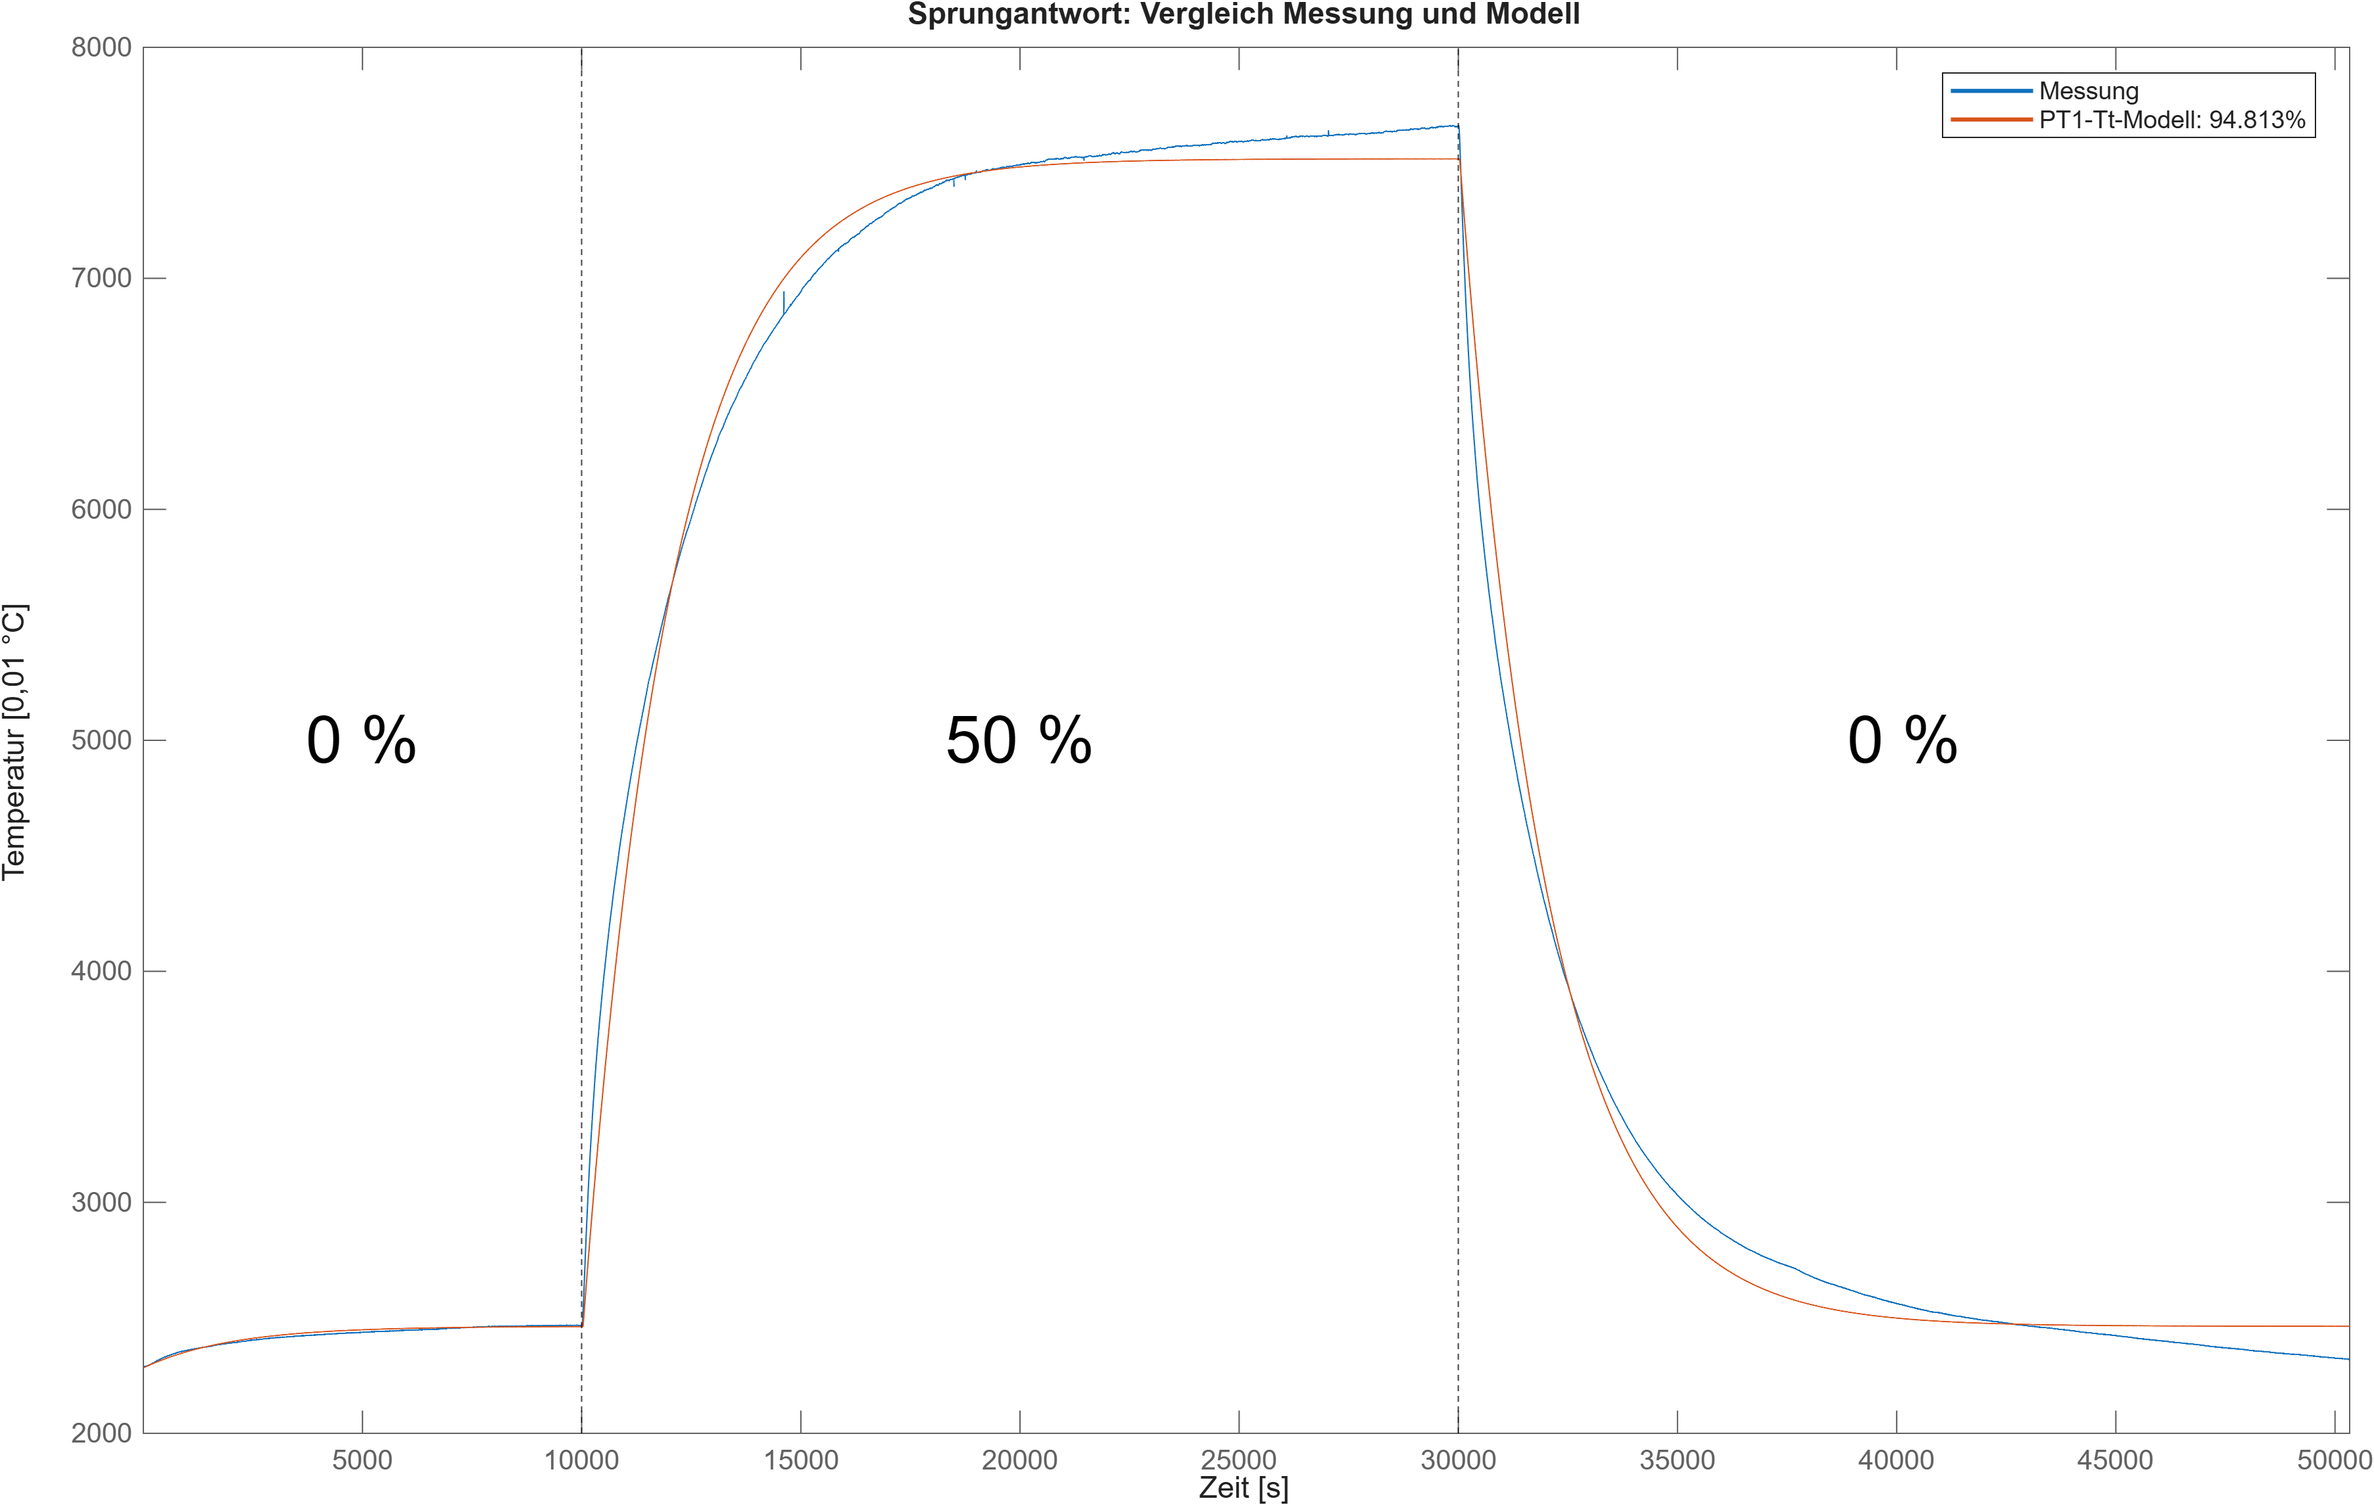
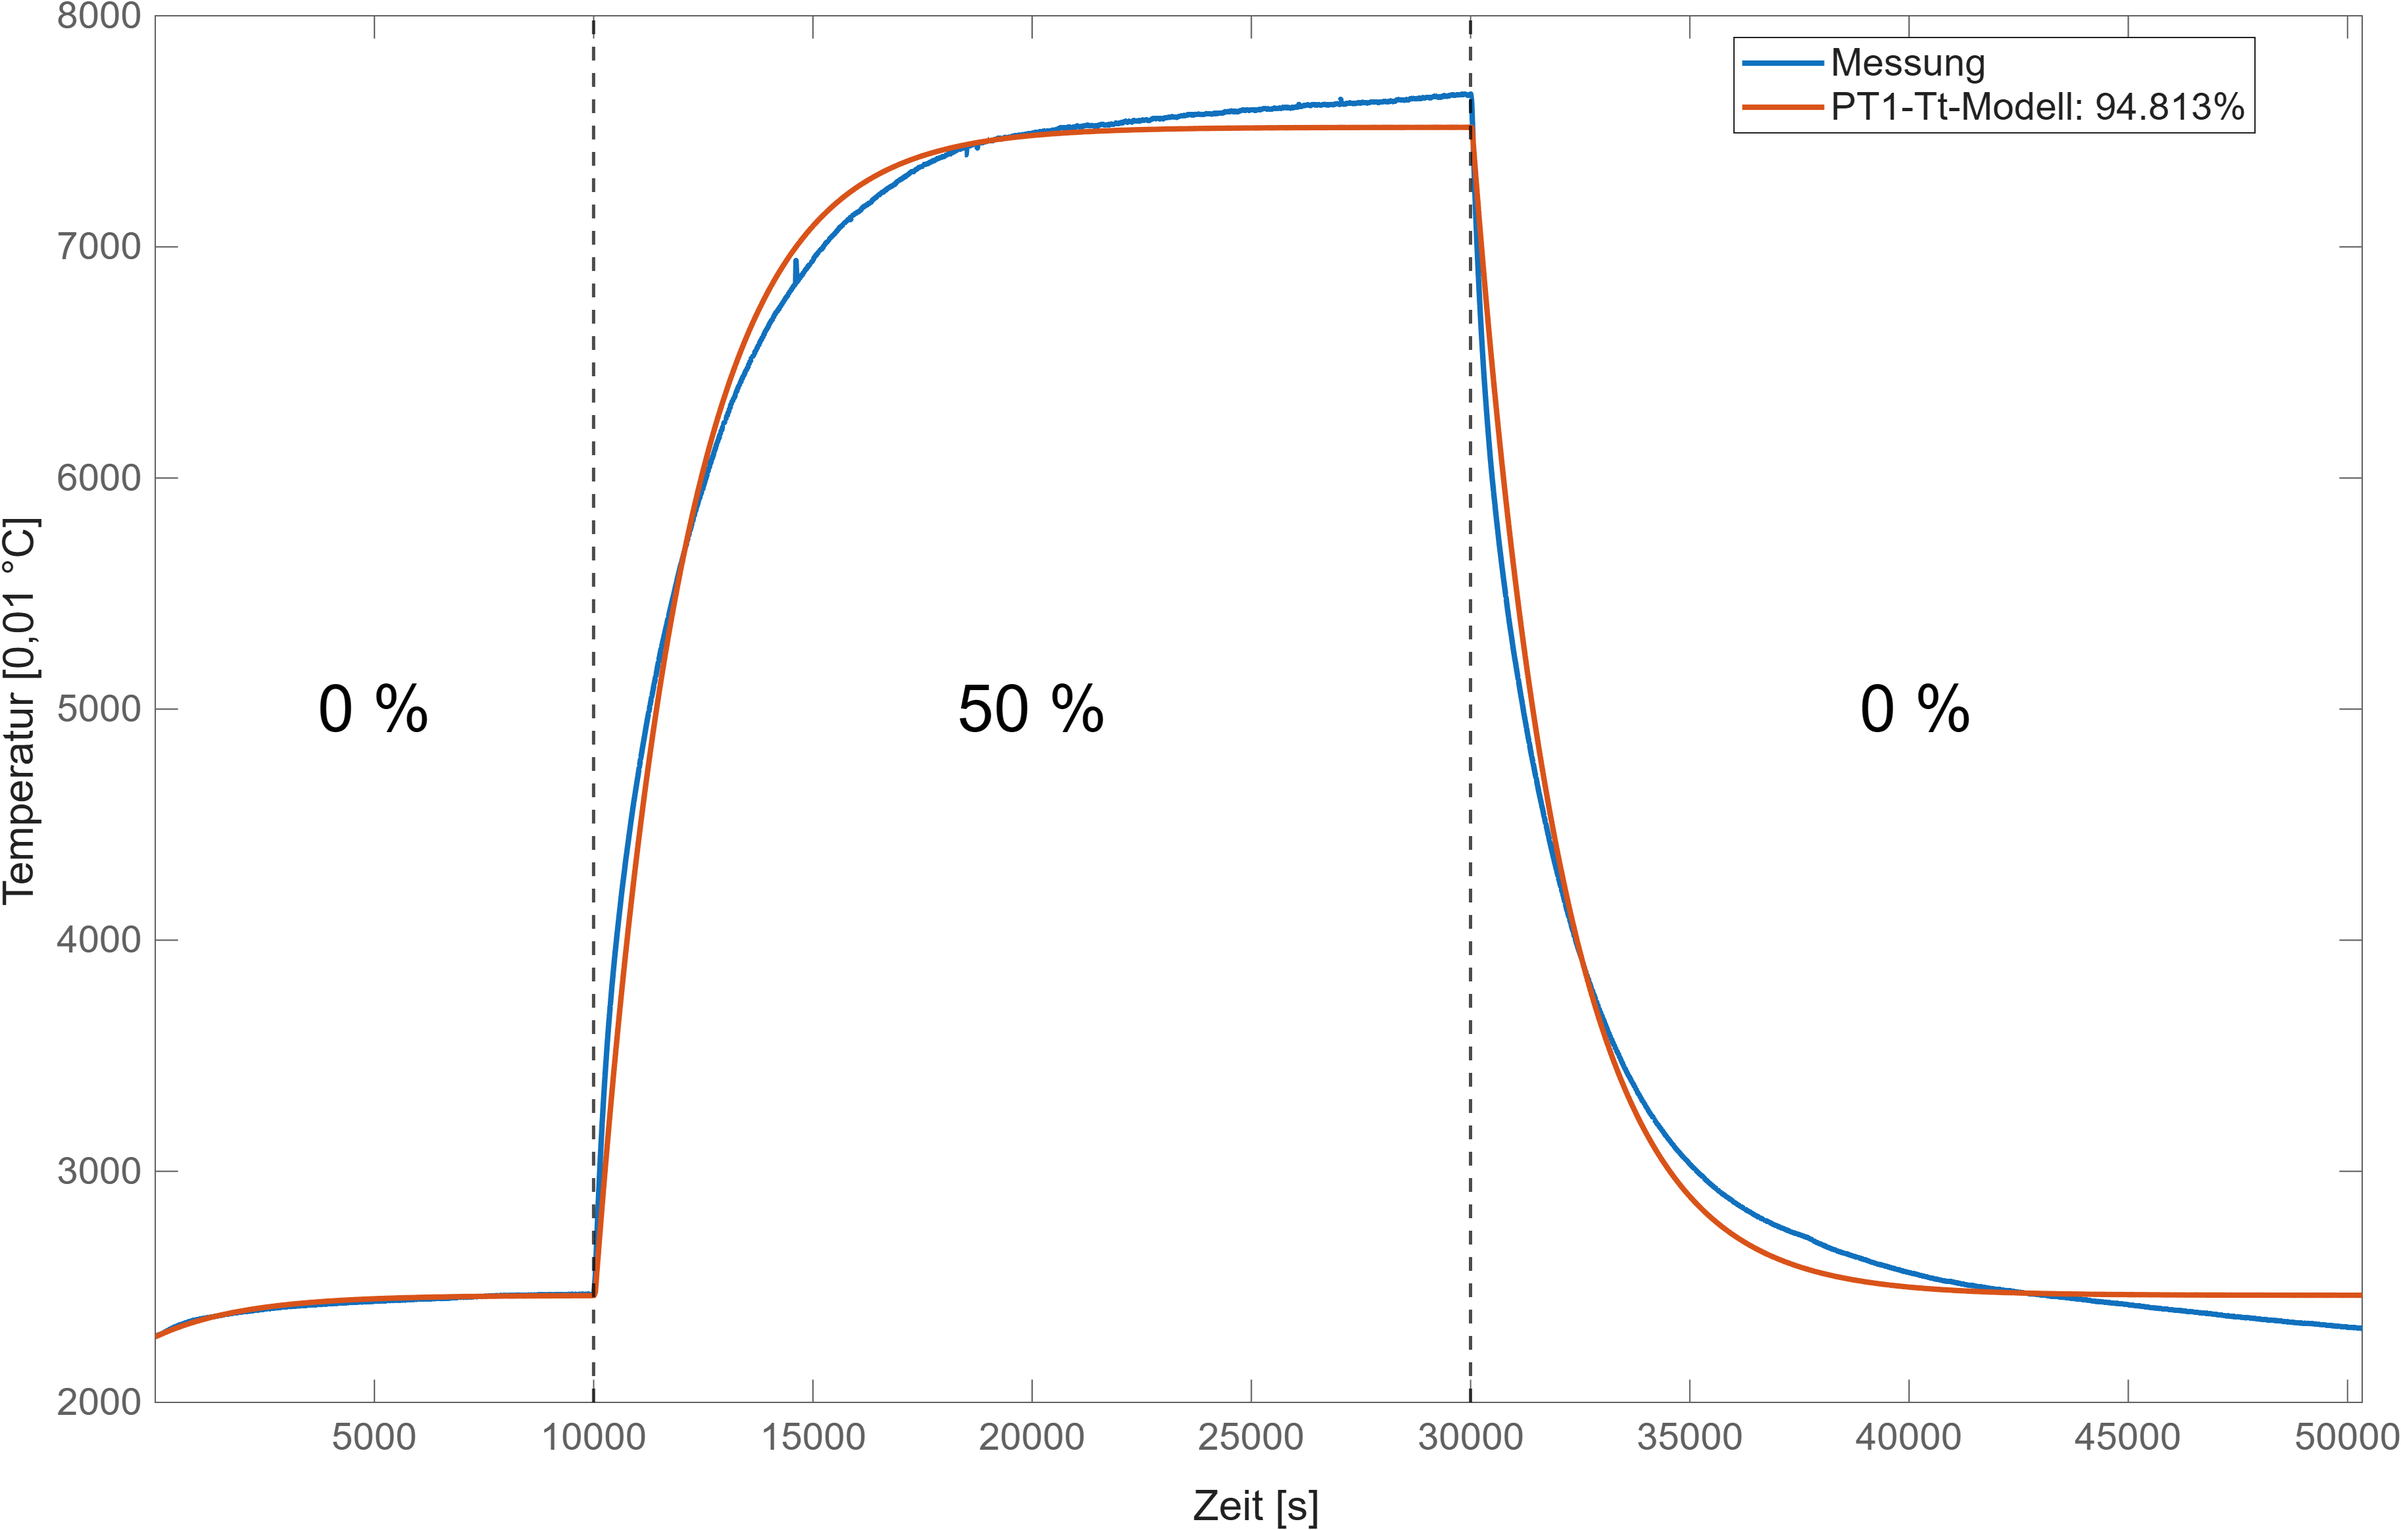
Better diagramm

diff --git a/scripts/system_identification.m b/scripts/system_identification.m
@@ -138,24 +138,33 @@ warning('on', 'all')
 fig2 = figure(2);
 compare(data, sys)
 
-% Beschriftung, Axen und Farben
+% Beschriftung, Achsen und Farben
 xlabel('Zeit [s]');
 ylabel('Temperatur [0,01 °C]');
-title('Sprungantwort: Vergleich Messung und Modell');
+title('');                             % Diagrammtitel entfernen
+
 txt = findall(fig2, 'Type', 'text', 'String', 'y1');
 delete(txt);
 txt = findall(fig2, 'Type', 'text', 'String', '(seconds)');
 delete(txt);
+
 ax = findall(gcf, 'Type', 'axes');
+set(ax, 'FontSize', 14);               % Schriftgröße für alle Achsen & Ticks
 ax(4).XAxis.Exponent = 0;
+
 ax(1).XLabel.String = 'Zeit [s]';
+ax(1).XLabel.Units = 'normalized';
+ax(1).XLabel.Position(2) = ax(1).XLabel.Position(2) - 0.03; % Tiefer setzen
+
 h = findall(gcf, 'Type', 'line');
 h(7).Color = h(6).Color;
 h(6).Color = [0.8500 0.3250 0.0980];
+h(7).LineWidth = 2;                    % Linienstärke Messung
+h(6).LineWidth = 2;                    % Linienstärke Modell
 
 % Linien und Beschriftung
-xline(zeit(idx_vorne), '--black', 'LineWidth', 0.5);
-xline(zeit(idx_hinten), '--black', 'LineWidth', 0.5);
+xline(zeit(idx_vorne), '--black', 'LineWidth', 1.2);
+xline(zeit(idx_hinten), '--black', 'LineWidth', 1.2);
 yl = ylim;
 y_text = (yl(1) + yl(2)) / 2;
 text((x1+x2)/2, y_text, [num2str(eingang(idx_vorne-1)) ' %'], 'FontSize', 24, 'HorizontalAlignment', 'center', 'Color', 'black');
@@ -167,9 +176,10 @@ text((x3+x4)/2, y_text, [num2str(eingang(end)) ' %'], 'FontSize', 24, 'Horizonta
 lgd = findall(gcf, 'Type', 'legend');
 delete(lgd);
 hold on;
-p1 = plot(nan, nan, '-', 'Color', h(7).Color, 'LineWidth', 1.5);
-p2 = plot(nan, nan, '-', 'Color', h(6).Color, 'LineWidth', 1.5);
-legend([p1 p2], {'Messung', ['PT1-Tt-Modell: ' num2str(fit) '%']}, 'Location', 'best');
+p1 = plot(nan, nan, '-', 'Color', h(7).Color, 'LineWidth', 2);
+p2 = plot(nan, nan, '-', 'Color', h(6).Color, 'LineWidth', 2);
+legend([p1 p2], {'Messung', ['PT1-Tt-Modell: ' num2str(fit) '%']}, ...
+    'Location', 'best', 'FontSize', 14);
 hold off;
 
 % Speichern
